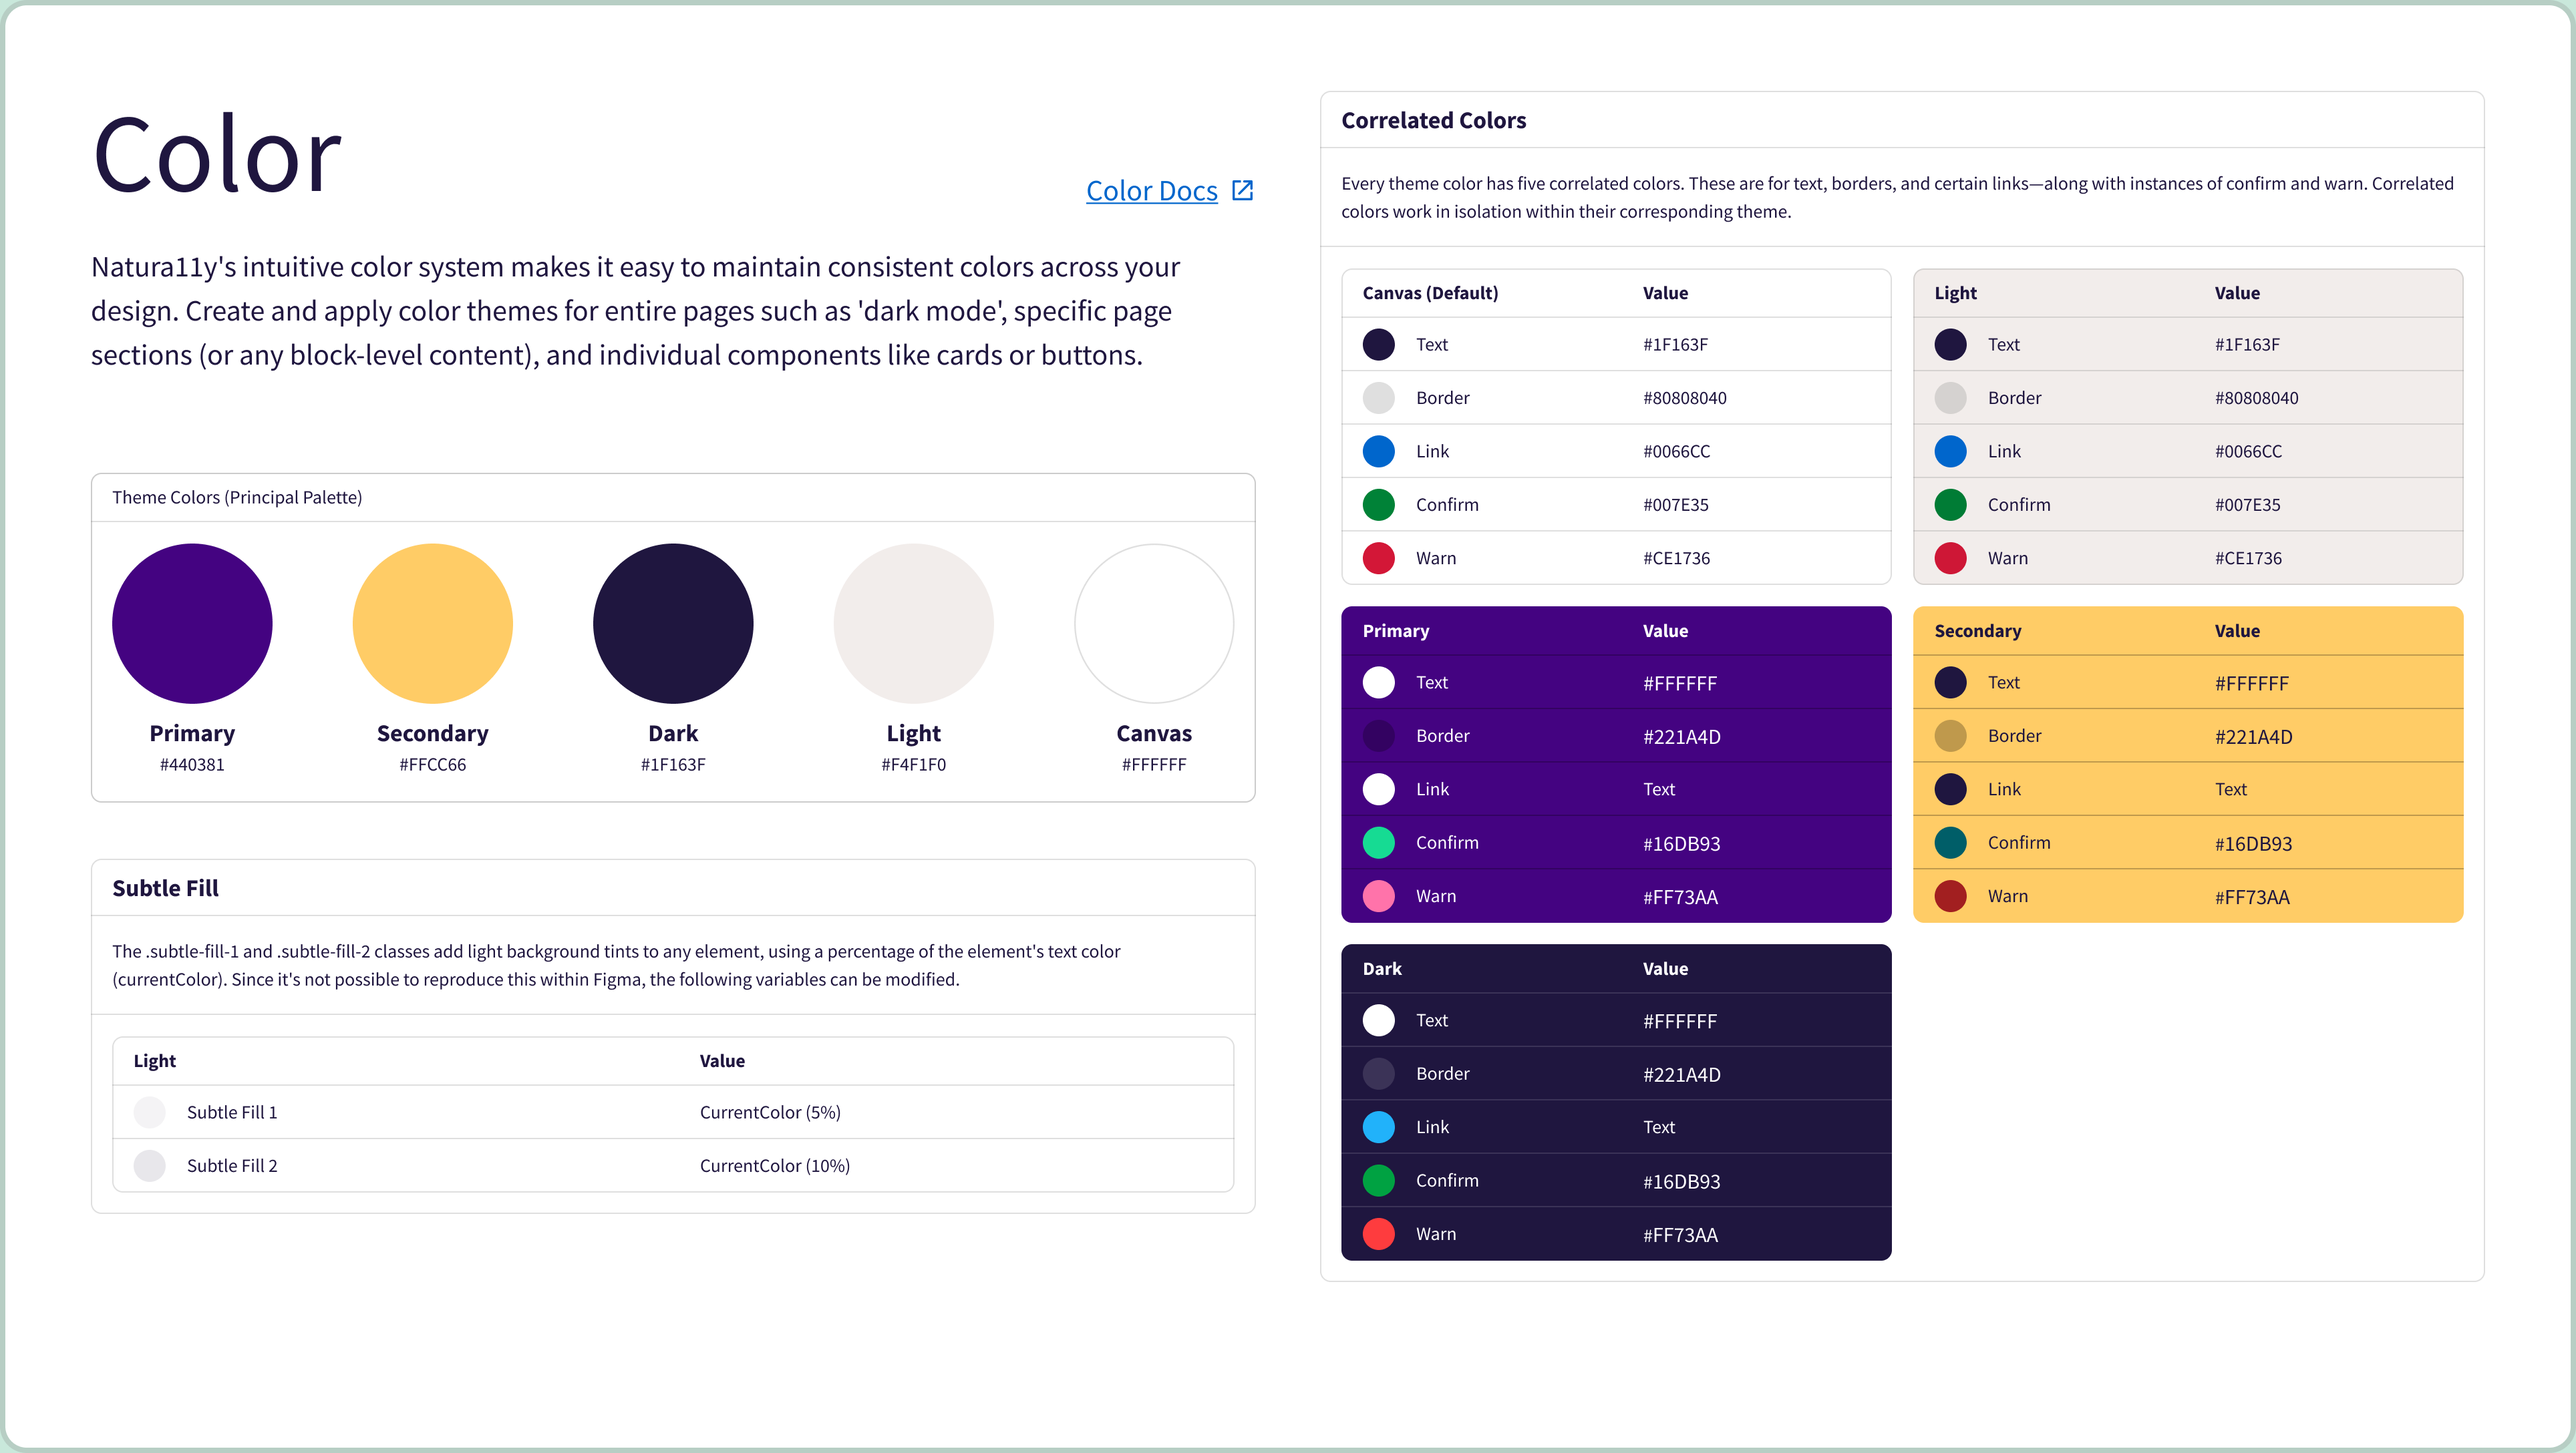
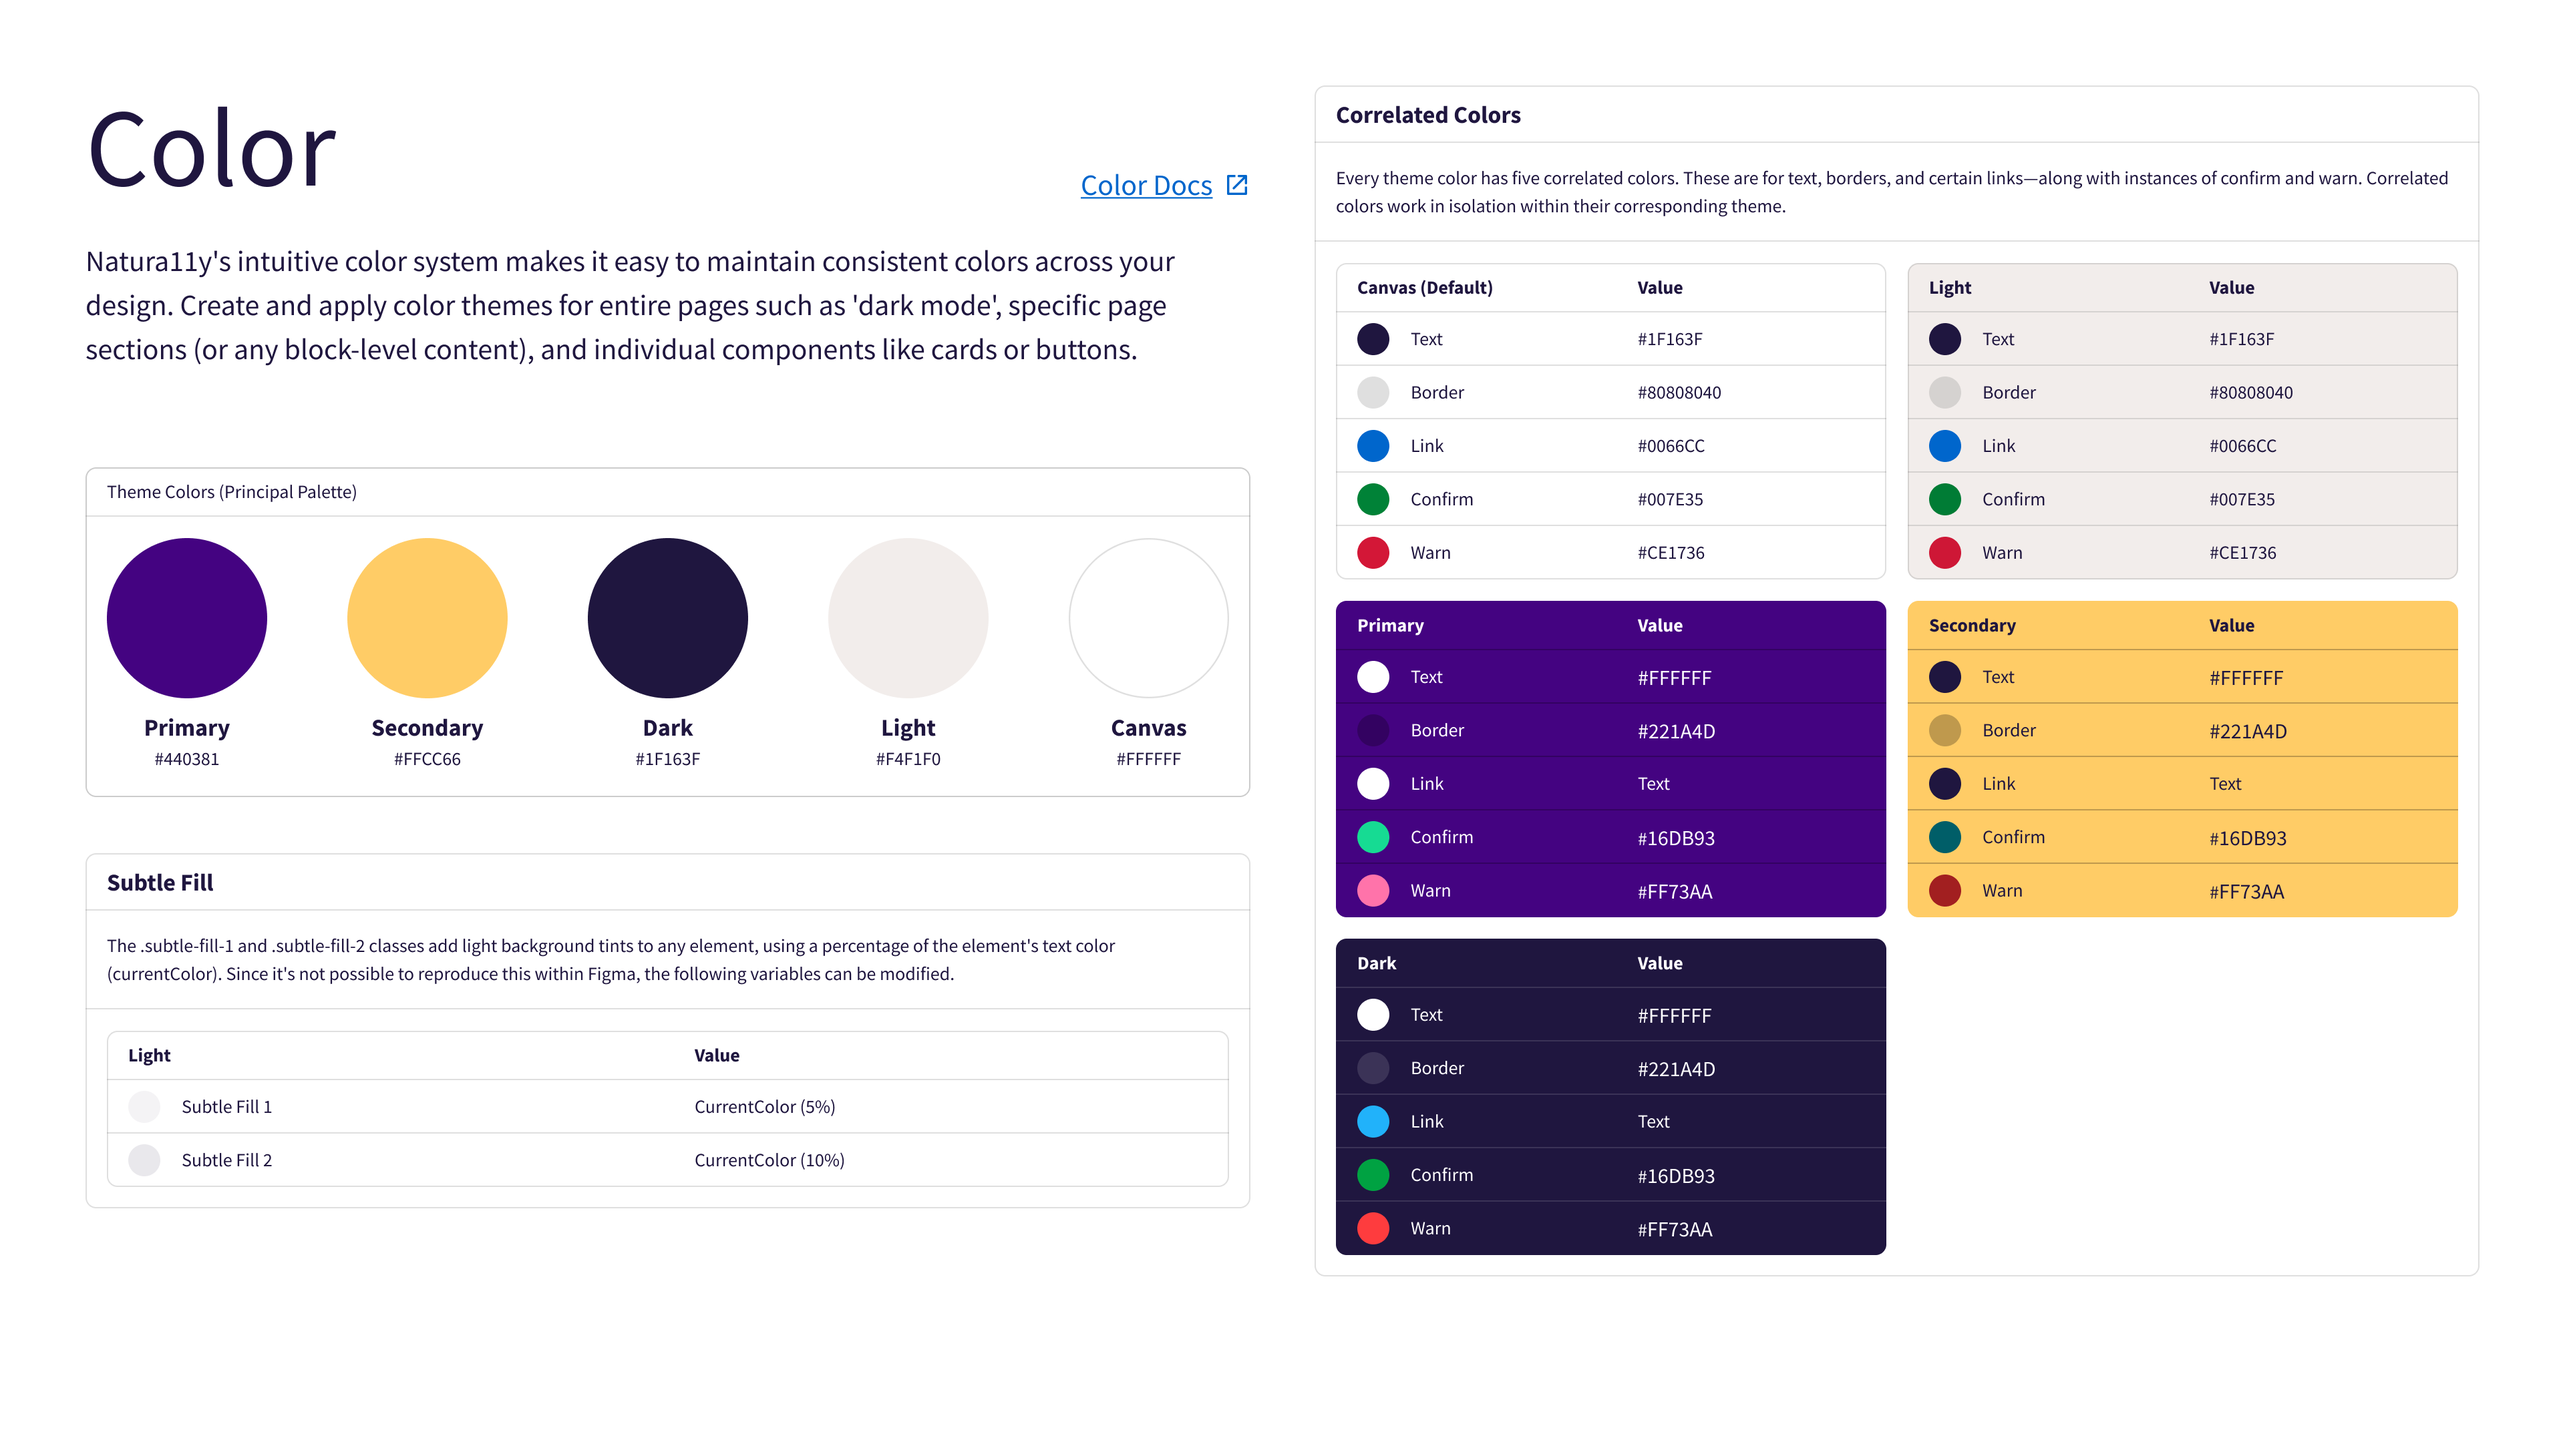
Replace Natura11y color figure with clean Figma export

diff --git a/context/README.md b/context/README.md
@@ -1,6 +1,8 @@
 # Project context
 
-**October 4 — BNY default copy and alt-text audit, ready for publication:** BNY now inherits the main About MDX and uses the latest approved Who I am / What I do blurbs. Its introduction, project selection, and résumé remain application-specific. BNY Confluence **28540981 v8** and its saved editor copy match. All 20 Hemingway exports are regenerated, including the new `applications/bny.md`. The image audit covers **387 rendered images across 54 production pages**, with no missing alt attributes; empty alternatives are limited to decorative project/article previews and marquees with adjacent text. Reviewed the descriptive alternatives and gallery/lightbox handling, and clarified the Mr. Ellie Pooh photography montage’s seven images and square product crops. The two Visionlearning montages already have specific, accurate alternatives. The generated-site check now prevents missing alt attributes. Review/production builds pass all 27 tests, zero Astro diagnostics, and 117/54-page audits; main and BNY About text matches exactly, with the BNY résumé link correctly scoped. The approved floating Back to Top, montage exports, and Figma organization records are included in this release. Evidence: `output/bny-release-2026-10-04/`.
+**October 4 — loose Figma figures and clean Color image:** Carl removed the need for organizational groups. Every current/source figure now sits directly in its case-study section, with the same absolute position and size; current/draft labels remain as plain text. Eight 9600 × 19200 sections and their order are unchanged. Carl supplied the clean Natura11y Color figure `1495:2334` to replace the older image with a baked-in pale green edge. The new 3840 × 2160 PNG is exported directly from that node. [Details and source](case-study-graphics.md#october-4--portfolio-figma-case-study-organization).
+
+**October 4 — BNY defaults and portfolio refinements published:** Release **f7fdea3** is live after [Cloudways run 37233595593](https://github.com/cavidano/carl-avidano-ux/actions/runs/37233595593). BNY inherits the main About MDX and uses the latest approved Who I am / What I do blurbs; its introduction, selection, and résumé remain application-specific. This also publishes the three transparent Figma montages and the floating Back to Top component. Both builds passed all 27 tests, zero Astro diagnostics, and 117/54-page audits. All **53 live content pages and six assets** match the GitHub artifact; the BNY résumé is byte-for-byte unchanged. The alt-text audit covers **387 images** (316 descriptive and 71 decorative), with no missing alternatives. Decorative previews/marquees have adjacent titles; the shared galleries retain their descriptions in lightboxes. Clarified the Mr. Ellie Pooh montage’s seven photographs and square product crops; the Visionlearning descriptions already matched their graphics. The build now guards against missing alt attributes. BNY Confluence **28540981 v9**, Visionlearning **23429129 v67**, Mr. Ellie Pooh **24576001 v26**, and their saved editor copies match the relevant copy and new exported graphics. All **20 Hemingway exports** are current, including `applications/bny.md`. Main and refinements are pushed; continue on `codex/final-refinements`. Evidence: `output/bny-release-2026-10-04/`.
 
 **October 4 — Portfolio Figma organized:** All 54 currently used standalone static case-study figures and marquees are filed across eight correctly named sections on the Portfolio file’s Case Studies page. Carl's follow-up establishes identical **9600 × 19200 px** sections in one left-to-right row matching website order, with 800 px gaps. Current figures sit at the top; clearly labeled drafts/sources/unused artwork sits at the bottom. Preserve intentional extra room and original artwork sizes. Editable compositions were moved from scattered source pages and six missing current figures were imported from website source assets. The three 1800 px montages retain their geometry. Individual screenshot galleries and animations were excluded. ESR, DevSmart Group, and Reingold compositions now live on the new **Archive** page (`1502:2143`); the empty Marquee page was removed. No website/deployment changes. [Section IDs, figure map, and verification](case-study-graphics.md#october-4--portfolio-figma-case-study-organization).
 

diff --git a/context/case-study-graphics.md b/context/case-study-graphics.md
@@ -4,6 +4,10 @@ Working review list · Updated October 4, 2026
 
 ## October 4 — Portfolio Figma case-study organization
 
+**Latest refinement:** Carl requested the actual figures loose in each case-study section. Removed the 16 nested usage/draft sections and their row/stack frames. All **96 current and retained-source compositions** now sit directly in their eight project sections. Plain text labels retain the distinction between current artwork at the top and drafts/sources at the bottom. All figure dimensions and absolute positions were verified unchanged (zero drift); section dimensions and ordering are preserved. The internal structure of each figure remains intact. This supersedes the nested-section arrangement described below. Verification: `output/figma-organization-2026-10-04/loose-figures.json`.
+
+**Color-figure correction:** Carl replaced the imported image with [clean figure `1495:2334`](https://www.figma.com/design/RELqPD0MlE9xfVLxRMGJTR/Portfolio?node-id=1495-2334); the previous `1499:2907` was removed by the time the sections were ungrouped. The old website PNG had a pale green rounded edge baked into it. The replacement is a 1920 × 1080 image-filled rectangle with a 3840 × 2160 original source. Exported that exact node at 2× to replace `src/images/natura11y/natura11y-figma-color-system.png`, preserving the clean white composition and the existing medium-size figure, lightbox, caption, and alt text. It is a full-resolution export, not a Figma inspection screenshot.
+
 Carl requested a cleanup of the existing Portfolio file, including the marquees and interwoven presentation compositions. The [Case Studies page](https://www.figma.com/design/RELqPD0MlE9xfVLxRMGJTR/Portfolio?node-id=1335-1973) now contains all **54 current standalone static figures and marquees** in eight correctly named project sections. Following Carl's refinement, every section is **9600 × 19200 px**, arranged in one horizontal row with 800 px gaps in the website's sort order: Phoenix.gov, Visionlearning, Natura11y, Cheetah.org, NYC OTI, LADRC, Mr. Ellie Pooh, UNICEF. Each project has **01 — In use on the website** at the top, in narrative order, and **02 — Drafts, sources and unused artwork** aligned 160 px above the section's bottom. Retained source material includes duplicate marquees. Leave the intentional empty space; do not shrink sections to content. The second section formerly labeled UNICEF is now Natura11y. Cheetah.org, NYC OTI, and LADRC sections were created.
 
 Existing artwork was moved from Marquee, Interwoven Presentations, Brand, Device Figures, Mobile Showcase, Project Tour, and the UNICEF source catalog. The shared monorepo/Figma guidance frame now lives in Natura11y; it is also used by a Drawing Board article. Original editable compositions and IDs were retained. The three 1800 px montage frames and their internal gutters were not redesigned. Current individual CaseStudyScreens galleries and animation files were excluded. Other source catalogs, gallery source images, and unrelated design-system components remain on their existing pages.
@@ -48,7 +52,7 @@ Validation: all 54 planned figures have the expected project ancestor, no loose 
 | natura11y | `natura11y-code-ide-example` | `213:196` |
 | natura11y | `storybook-flyout` | `1185:295` |
 | natura11y | `storybook-form` | `1186:380` |
-| natura11y | `natura11y-figma-color-system` | `1499:2907` |
+| natura11y | `natura11y-figma-color-system` | `1495:2334` |
 | natura11y | `natura11y-oceanic-pulse-light` | `1499:2905` |
 | natura11y | `natura11y-oceanic-pulse-dark` | `1499:2908` |
 | natura11y | `natura11y-type-scale-visualizer` | `1457:999` |

diff --git a/src/sites/bny/copy-review.md b/src/sites/bny/copy-review.md
@@ -1,6 +1,6 @@
 # BNY copy review
 
-**October 4 — default About and homepage blurbs (Confluence v8):** Carl requested the latest main-site About narrative and Who I am / What I do for BNY. Removed the optional BNY About override so it inherits `src/content/pages/about.mdx`; future main About edits now carry through automatically. Copied the current approved blurbs from `src/pages/index.astro` into BNY’s `site.json`. The employer introduction, featured projects, scoped links, and application résumé are preserved. Main and saved editor Confluence copies match. `npm run export:hemingway` now also writes `output/hemingway/applications/bny.md`, containing the BNY introduction, blurbs, and full About copy. Both local builds pass, and rendered main/BNY About text matches exactly. Publication verification follows in the project context. This supersedes the older tailored-About and local-only notes below.
+**October 4 — default About and homepage blurbs (Confluence v9):** Carl requested the latest main-site About narrative and Who I am / What I do for BNY. Removed the optional BNY About override so it inherits `src/content/pages/about.mdx`; future main About edits now carry through automatically. Copied the current approved blurbs from `src/pages/index.astro` into BNY’s `site.json`. The employer introduction, featured projects, scoped links, and application résumé are preserved. Main and saved editor Confluence copies match. `npm run export:hemingway` now also writes `output/hemingway/applications/bny.md`, containing the BNY introduction, blurbs, and full About copy. Both local builds pass, and rendered main/BNY About text matches exactly. Published and verified in release `f7fdea3` through [Cloudways run 37233595593](https://github.com/cavidano/carl-avidano-ux/actions/runs/37233595593). All 53 live content pages match the artifact; the BNY résumé is unchanged. This supersedes the older tailored-About and local-only notes below.
 
 **October 4 — curated collection link (Confluence v7):** Changed the project introduction from “tailored” to “selected” and added “View all case studies on my main website,” linking to `https://carlavidano.com/case-studies`. Main and saved editor copies were updated. Existing project selection, About, and other employer copy are preserved. Mr. Ellie Pooh is not featured; shared case-study routes remain available. The shared update is included in release `c8e5631`. BNY is live and verified; the other application sites retain their draft publication status.
 

diff --git a/context/drawing-board.md b/context/drawing-board.md
@@ -208,6 +208,7 @@ The command also writes `output/hemingway/main-site.md` at the parent folder lev
 
 - `output/hemingway/case-studies/`: all eight case studies and `case-study-summaries.md`.
 - `output/hemingway/drawing-board/`: one Markdown file per article, using its source basename, plus `drawing-board-summaries.md` for the current listing introduction and published card descriptions in website order.
+- `output/hemingway/applications/bny.md`: BNY’s application introduction, Who I am / What I do, and full About copy. Added October 4 when Carl requested the main-site defaults for BNY. The export reads the shared About source unless an application override is restored later. This supersedes the earlier deferral of application exports above.
 
 Eight articles are exported: seven published posts and the draft “The Malar Stripe Project: building an accessible foundation for cheetah.org.” Including a draft for review does not publish or approve it. Carl clarified on October 4 that only the Hemingway export of “Refreshing the CCF logo” should be removed. Its local MDX draft remains unchanged, and the exporter excludes it from future Hemingway files. It has no main Confluence page.
 
